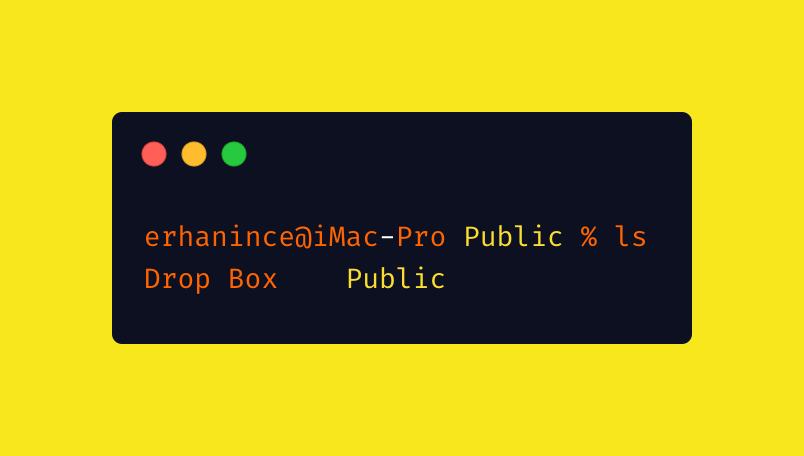
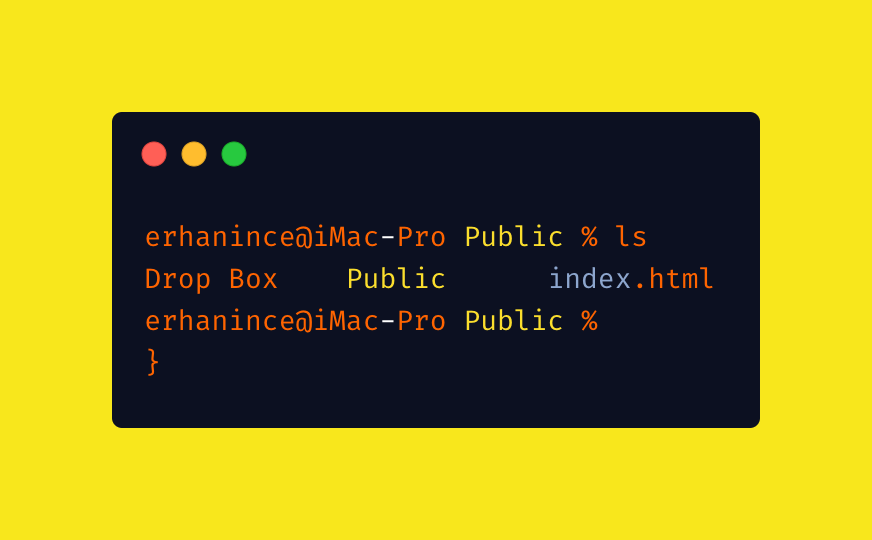
My-Cheatsheet-v0.0.6

Changed region(s): [[0.1244, 0.1842, 0.8706, 0.7982]]

diff --git a/index.html b/index.html
@@ -15,8 +15,9 @@
         <li><a href="#cdd">cd</a></li>
         <li><a href="#cddot">cd ..</a></li>
         <li><a href="#mkdir">mkdir</a></li>
+        <li><a href="#mkdir">ls</a></li>
         <li><a href="#mkdir">touch</a></li>
-        <li><a href="#mkdir">mv</a></li>
+        <li><a href="#movere">mv</a></li>
         <li><a href="#movere">mv -r</a></li>
         <li><a href="#movere">rm</a></li>
         <li><a href="#movere">rm -r</a></li>
@@ -46,6 +47,12 @@
         <h1 id="mkdir">mkdir</h1>
         <img src="assets/img/mkdir.png" alt="" />
         <p>mkdir erstellt einen neuen Ordner</p>
+  
+      </div>
+      <div>
+        <h1 id="mkdir">ls</h1>
+        <img src="assets/img/ls.png" alt="" />
+        <p>ls Listet alle Dateien in einem Ordner auf</p>
   
       </div>
       <div>
